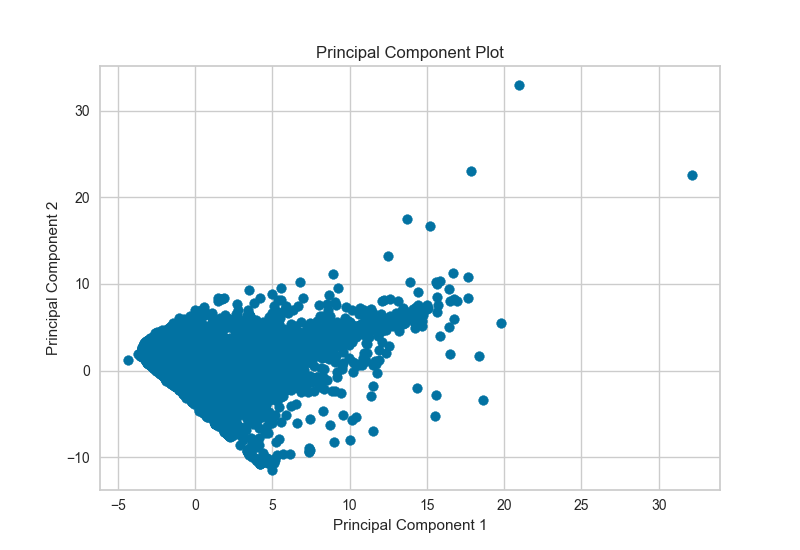
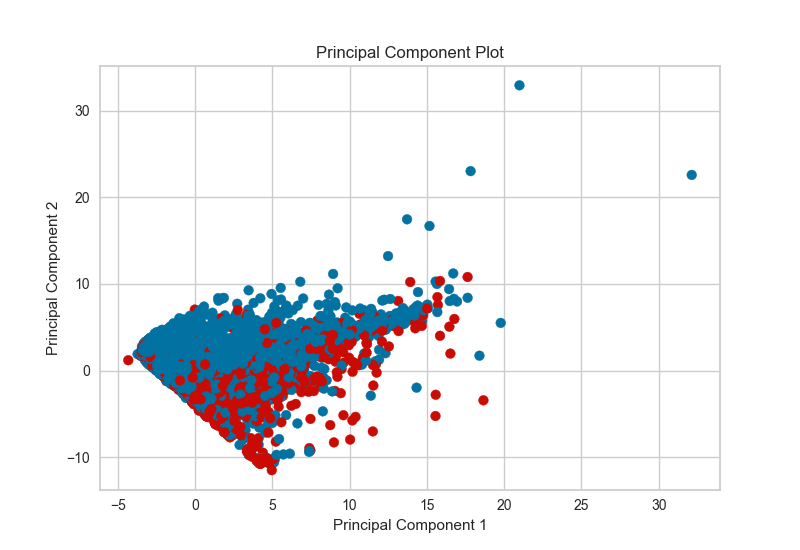
* added minimal biplot documentation * added unicode header for PY2 import fix

diff --git a/docs/api/features/pca.py b/docs/api/features/pca.py
@@ -1,3 +1,4 @@
+import numpy as np
 import pandas as pd
 import matplotlib.pyplot as plt
 
@@ -13,24 +14,44 @@ def pca(X, y, outpath, **kwargs):
     viz.poof(outpath=outpath)
 
 
-if __name__ == '__main__':
-
+def load_credit():
     # Load the credit data set
     data = pd.read_csv("../../../examples/data/credit/credit.csv")
 
     # Specify the features of interest
-    features = [
-            'limit', 'sex', 'edu', 'married', 'age', 'apr_delay', 'may_delay',
-            'jun_delay', 'jul_delay', 'aug_delay', 'sep_delay', 'apr_bill', 'may_bill',
-            'jun_bill', 'jul_bill', 'aug_bill', 'sep_bill', 'apr_pay', 'may_pay', 'jun_pay',
-            'jul_pay', 'aug_pay', 'sep_pay',
-        ]
+    target = "default"
+    features = [col for col in data.columns if col != target]
 
     # Extract the numpy arrays from the data frame
-    X = data[features].as_matrix()
-    y = data.default.as_matrix()
+    X = data[features]
+    y = data[target]
+    return X, y
 
-    # Instantiate the visualizer
-    pca(X, y, "images/pca_projection_2d.png", scale=True, center=False, col=y)
 
-    pca(X, y, "images/pca_projection_3d.png", scale=True, center=False, col=y, proj_dim=3)
+def load_concrete():
+    # Load the credit data set
+    data = pd.read_csv("../../../examples/data/concrete/concrete.csv")
+
+    # Specify the features of interest
+    feature_names = ['cement', 'slag', 'ash', 'water', 'splast', 'coarse', 'fine', 'age']
+    target_name = 'strength'
+
+    # Get the X and y data from the DataFrame
+    X = data[feature_names]
+    y = data[target_name]
+
+    return X, y
+
+
+if __name__ == '__main__':
+
+    # Draw PCA with credit data set
+    X, y = load_credit()
+    colors = np.array(['r' if yi else 'b' for yi in y])
+    pca(X, y, "images/pca_projection_2d.png", scale=True, color=colors)
+    pca(X, y, "images/pca_projection_3d.png", scale=True, color=colors, proj_dim=3)
+
+    # Draw biplots with concrete data set
+    X, y = load_concrete()
+    pca(X, y, "images/pca_biplot_2d.png", scale=True, proj_features=True)
+    pca(X, y, "images/pca_biplot_3d.png", scale=True, proj_features=True, proj_dim=3)

diff --git a/yellowbrick/features/pca.py b/yellowbrick/features/pca.py
@@ -1,3 +1,4 @@
+# -*- coding: utf-8 -*-
 # yellowbrick.features.pca
 # Decomposition based feature visualization with PCA.
 #
@@ -85,10 +86,8 @@ class PCADecomposition(MultiFeatureVisualizer):
     >>> iris = datasets.load_iris()
     >>> X = iris.data
     >>> y = iris.target
-    >>> params = {'scale': True, 'center': False, 'color': y}
-    >>> visualizer = PCADecomposition(**params)
-    >>> visualizer.fit(X)
-    >>> visualizer.transform(X)
+    >>> visualizer = PCADecomposition()
+    >>> visualizer.fit_transform(X)
     >>> visualizer.poof()
 
     """
@@ -144,7 +143,7 @@ class PCADecomposition(MultiFeatureVisualizer):
         """
         super(PCADecomposition, self).fit(X=X, y=y, **kwargs)
         self.pca_transformer.fit(X)
-        self.pca_components_ = self.pca_transformer.steps[1][1].components_
+        self.pca_components_ = self.pca_transformer.named_steps['pca'].components_
         return self
 
     def transform(self, X, y=None, **kwargs):
@@ -162,14 +161,14 @@ class PCADecomposition(MultiFeatureVisualizer):
                 max_x = max(X[:, 0])
                 max_y = max(X[:, 1])
                 for i in range(self.pca_components_.shape[1]):
-                    plt.arrow(
+                    self.ax.arrow(
                         x=0, y=0,
                         dx=x_vector[i] * max_x,
                         dy=y_vector[i] * max_y,
                         color='r', head_width=0.05,
                         width=0.005,
                     )
-                    plt.text(
+                    self.ax.text(
                         x_vector[i] * max_x * 1.05,
                         y_vector[i] * max_y * 1.05,
                         self.features_[i], color='r'

diff --git a/tests/test_features/test_pca.py b/tests/test_features/test_pca.py
@@ -1,3 +1,4 @@
+# -*- coding: utf-8 -*-
 # tests.test_features.test_pca
 # Tests for the PCA based feature visualizer.
 #
@@ -163,7 +164,7 @@ class PCADecompositionTests(VisualTestCase):
         """
         Test the PCADecomposition visualizer 4 dimensions scaled (catch YellowbrickError).
         """
-        params = {'scale': True, 'center': False, 'proj_dim': 4}
+        params = {'scale': True, 'proj_dim': 4}
         with pytest.raises(YellowbrickError, match="proj_dim object is not 2 or 3"):
             PCADecomposition(**params)
 
@@ -172,7 +173,7 @@ class PCADecompositionTests(VisualTestCase):
         Test the PCADecomposition visualizer 3 dims scaled on 2 dim data set (catch ValueError).
         """
         X = np.random.normal(loc=2, size=(100, 2))
-        params = {'scale': True, 'center': False, 'proj_dim': 3}
+        params = {'scale': True, 'proj_dim': 3}
 
         with pytest.raises(ValueError, match="n_components=3 must be between 0 and n_features"):
             pca = PCADecomposition(**params)

diff --git a/docs/api/features/pca.rst b/docs/api/features/pca.rst
@@ -10,41 +10,76 @@ The PCA Decomposition visualizer utilizes principal component analysis to decomp
     # Load the classification data set
     data = load_data('credit')
 
-    # Specify the features of interest
-    features = [
-        'limit', 'sex', 'edu', 'married', 'age', 'apr_delay', 'may_delay',
-        'jun_delay', 'jul_delay', 'aug_delay', 'sep_delay', 'apr_bill', 'may_bill',
-        'jun_bill', 'jul_bill', 'aug_bill', 'sep_bill', 'apr_pay', 'may_pay', 'jun_pay',
-        'jul_pay', 'aug_pay', 'sep_pay',
-    ]
+    # Specify the features of interest and the target
+    target = "default"
+    features = [col for col in data.columns if col != target]
 
-    # Extract the numpy arrays from the data frame
-    X = data[features].as_matrix()
-    y = data.default.as_matrix()
+    # Extract the instance data and the target
+    X = data[features]
+    y = data[target]
+
+    # Create a list of colors to assign to points in the plot
+    colors = np.array(['r' if yi else 'b' for yi in y])
 
 .. code:: python
 
     from yellowbrick.features.pca import PCADecomposition
-    
-    visualizer = PCADecomposition(scale=True, center=False, color=y)
-    visualizer.fit_transform(X,y)
+
+    visualizer = PCADecomposition(scale=True, color=colors)
+    visualizer.fit_transform(X, y)
     visualizer.poof()
 
 
 .. image:: images/pca_projection_2d.png
 
-The PCA projection can also be plotted in three dimensions to attempt to visualize more princple components and get a better sense of the distribution in high dimensions.
+The PCA projection can also be plotted in three dimensions to attempt to visualize more principal components and get a better sense of the distribution in high dimensions.
 
 .. code:: python
 
-    visualizer = PCADecomposition(
-        scale=True, center=False, color=y, proj_dim=3
-    )
-    visualizer.fit_transform(X,y)
+    visualizer = PCADecomposition(scale=True, color=colors, proj_dim=3)
+    visualizer.fit_transform(X, y)
     visualizer.poof()
 
 
 .. image:: images/pca_projection_3d.png
+
+Biplot
+------
+
+The PCA projection can be enhanced to a biplot whose points are the projected instances and whose vectors represent the structure of the data in high dimensional space. By using the ``proj_features=True`` flag, vectors for each feature in the dataset are drawn on the scatter plot in the direction of the maximum variance for that feature. These structures can be used to analyze the importance of a feature to the decomposition or to find features of related variance for further analysis.
+
+.. code:: python
+
+    # Load the classification data set
+    data = load_data('concrete')
+
+    # Specify the features of interest and the target
+    target = "strength"
+    features = [
+        'cement', 'slag', 'ash', 'water', 'splast', 'coarse', 'fine', 'age'
+    ]
+
+    # Extract the instance data and the target
+    X = data[features]
+    y = data[target]
+
+.. code:: python
+
+    visualizer = PCADecomposition(scale=True, proj_features=True)
+    visualizer.fit_transform(X, y)
+    visualizer.poof()
+
+
+.. image:: images/pca_biplot_2d.png
+
+.. code:: python
+
+    visualizer = PCADecomposition(scale=True, proj_features=True, proj_dim=3)
+    visualizer.fit_transform(X, y)
+    visualizer.poof()
+
+
+.. image:: images/pca_biplot_3d.png
 
 
 API Reference
